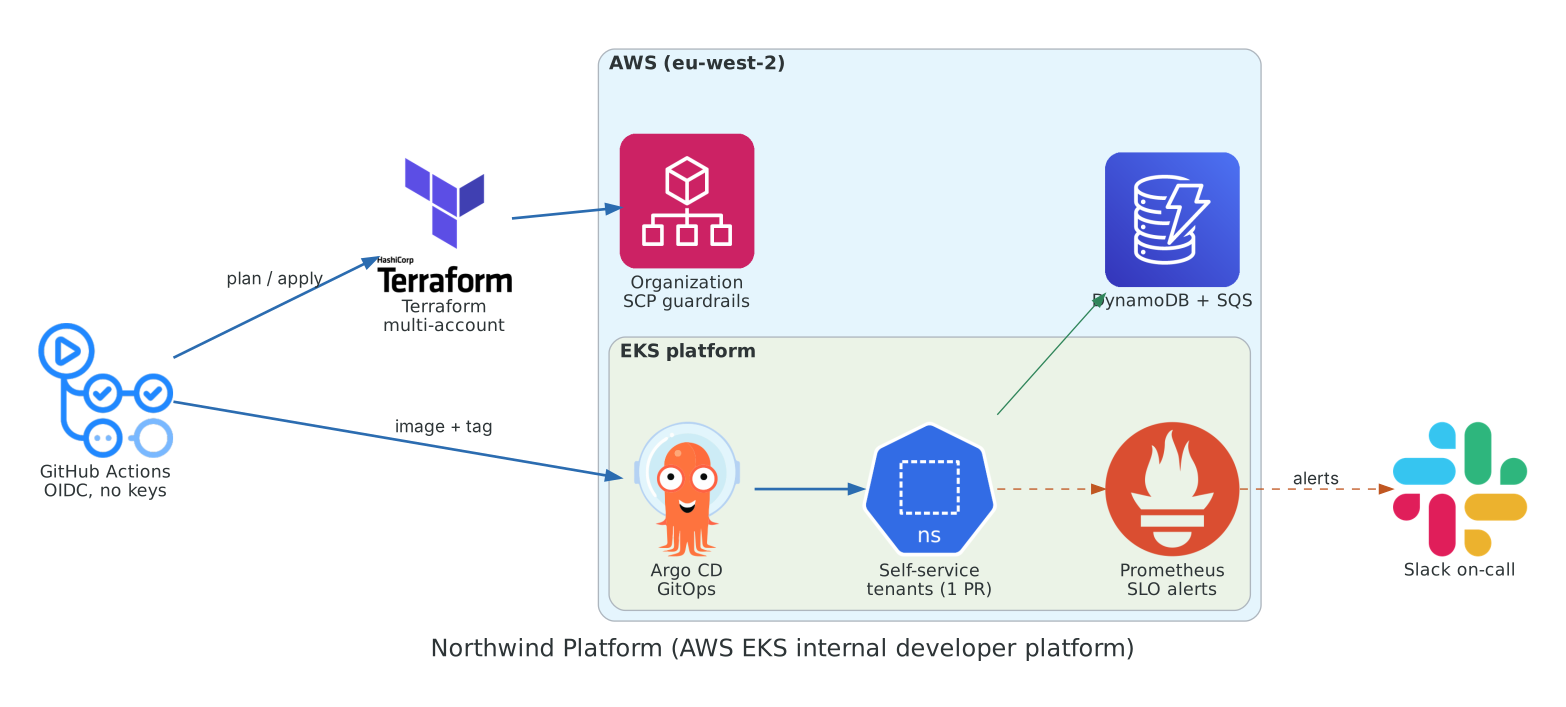
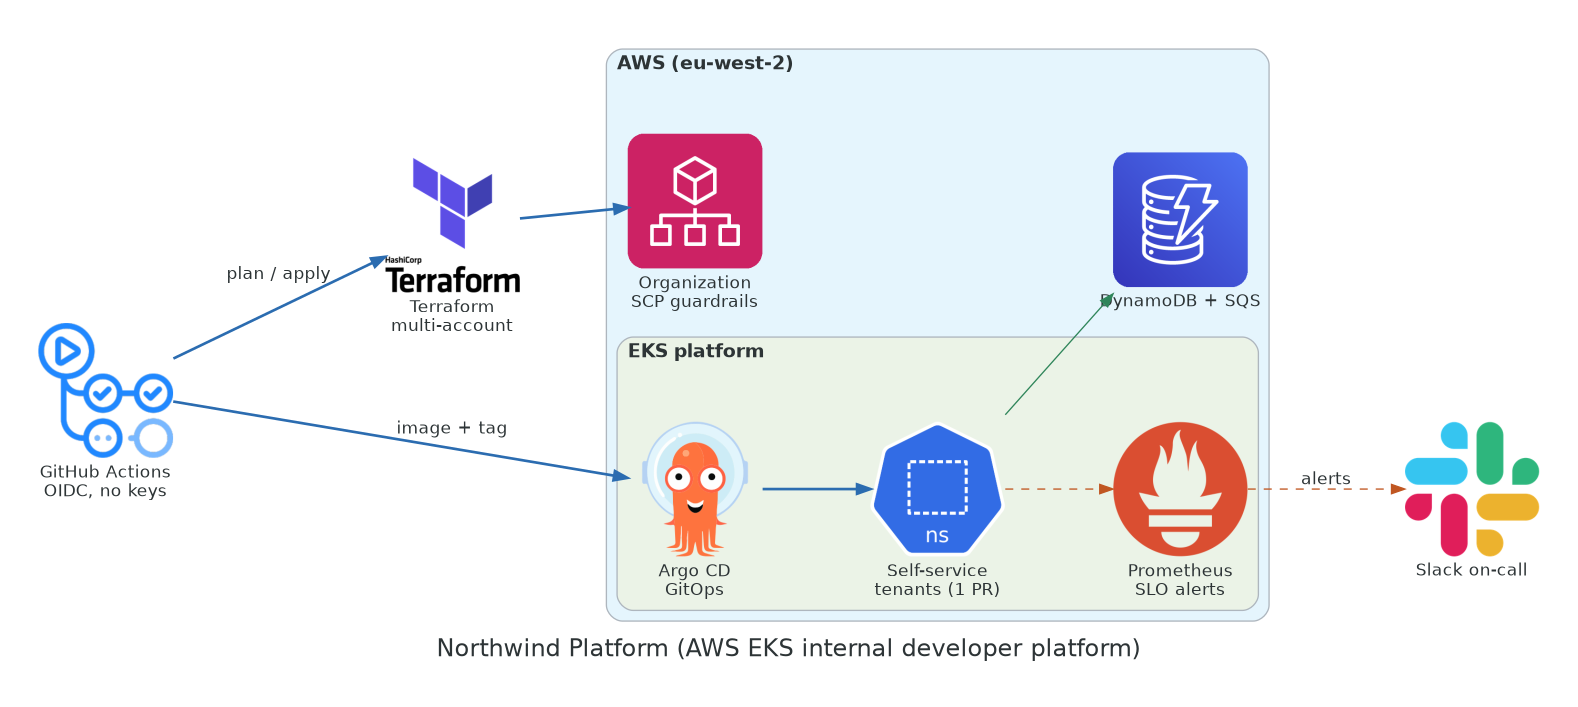
docs: close week 1 with diagrams, evidence and readme (#24)
- README: v0.1 status, target-diagram caption, Status column with proof
  links, Week 1 evidence, roadmap row, and known foundation gaps (#3, #4)
- architecture.md: what layer 1 and delivery contain today
- Diagram: scan node relabelled Checkov + Trivy + Infracost
- Evidence: OIDC apply-log screenshot and four new index rows
- ADR 0033: dismiss accepted-risk alerts in GitHub with their reason
- ADR 0037: tag check runs on an Infracost trial; Checkov replaces it

diff --git a/docs/diagrams/architecture.py b/docs/diagrams/architecture.py
@@ -97,7 +97,8 @@ def detailed() -> None:
             repo = Github("northwind-platform\nmonorepo")
             gha = GithubActions("Actions\nplan / apply / build")
             tf = Terraform("Terraform\nmodules")
-            scan = Trivy("Trivy + Checkov\nscans")
+            # Checkov first: it is the only blocking check; Infracost has no icon, so the label carries it.
+            scan = Trivy("Checkov + Trivy\n+ Infracost")
             repo >> deploy("PR") >> gha
             gha >> deploy() >> tf
             gha >> deploy() >> scan

diff --git a/README.md b/README.md
@@ -4,11 +4,14 @@
 Multi-account AWS, Terraform, EKS, Argo CD GitOps, keyless CI/CD and SLO-based alerting,
 validated with five incident drills.
 
-> 🚧 **Status:** Week 0 — workspace set up. See the [roadmap](#roadmap) for progress.
+> 🚧 **Status:** `v0.1-foundation` done: AWS Organization, SCPs, and keyless Terraform CI.
+> Week 2 (VPC + EKS) is next. See the [roadmap](#roadmap) for progress.
 
 ![Architecture](docs/diagrams/architecture.png)
 
-<sub>Diagram generated from code: [`docs/diagrams/architecture.py`](docs/diagrams/architecture.py) · `make diagram`</sub>
+<sub>Target architecture. Built so far: the AWS Organization, the bootstrap (state and OIDC roles)
+and the delivery pipeline. Generated from code:
+[`docs/diagrams/architecture.py`](docs/diagrams/architecture.py) · `make diagram`</sub>
 
 ---
 
@@ -29,20 +32,22 @@ self-service golden paths, so teams ship safely without waiting on a platform en
 
 ## What this demonstrates
 
-| Skill | Where to look |
-| --- | --- |
-| AWS core: VPC, IAM, EKS, DynamoDB, SQS, KMS, Route 53 | [`terraform/modules/`](terraform/modules/), [`terraform/envs/`](terraform/envs/) |
-| Infrastructure as Code (Terraform) | Modules, S3 remote state with locking, env split, pinned versions |
-| Multi-account governance | [`terraform/org/`](terraform/org/) — Organizations, SCPs, CloudTrail, budgets |
-| Kubernetes on EKS | Karpenter (spot), LB controller, Pod Identity |
-| CI/CD (GitHub Actions) | [`.github/workflows/`](.github/workflows/) — OIDC, plan on PR, apply on merge |
-| GitOps (Argo CD) | [`gitops/`](gitops/) — app-of-apps, promotion by PR, rollback by `git revert` |
-| Self-service platform | [`teams/`](teams/) + [`terraform/modules/tenant/`](terraform/modules/tenant/) |
-| Observability and SLOs | Prometheus, Grafana, Loki, Tempo, OpenTelemetry; burn-rate alerts to Slack |
-| Security by design | SCPs, least privilege, Kyverno, External Secrets, Trivy, Checkov, gitleaks |
-| FinOps | Tag policy, Infracost on PRs, OpenCost per team, spot, `make down` teardown verifier |
-| Python | [`apps/`](apps/) (FastAPI) and [`tools/`](tools/) with pytest |
-| Operations | [ADRs](docs/adr/), [runbooks](docs/runbooks/), [postmortems](docs/postmortems/) |
+✅ built, with a link to the code or proof · 🗓 planned, with the week it lands.
+
+| Skill | Where to look | Status |
+| --- | --- | --- |
+| AWS core: VPC, IAM, EKS, DynamoDB, SQS, KMS, Route 53 | IAM: [`terraform/bootstrap/`](terraform/bootstrap/), [`terraform/org/`](terraform/org/) · the rest: `terraform/modules/`, `terraform/envs/` | ✅ IAM · 🗓 Weeks 2–4 |
+| Infrastructure as Code (Terraform) | S3 remote state with native locking, pinned providers with lockfile hashes, imported console resources · modules and env split | ✅ state, pins, imports · 🗓 modules (Week 2) |
+| Multi-account governance | [`terraform/org/`](terraform/org/) — Organizations, deny-list SCPs, region lock, org CloudTrail, budget ([region deny](docs/evidence/2026-10-29-scp-region-deny.png), [trail event](docs/evidence/2026-10-29-cloudtrail-scp-deny-event.png)) | ✅ |
+| Kubernetes on EKS | Karpenter (spot), LB controller, Pod Identity | 🗓 Week 2 |
+| CI/CD (GitHub Actions) | [`ci.yml`](.github/workflows/ci.yml) — OIDC with no stored keys, plan on PR, approval-gated apply on merge ([OIDC apply log](docs/evidence/2026-11-16-apply-oidc-role.png), [PR plan](docs/evidence/2026-11-10-pr-plan-infracost.png), [push to `main` rejected](docs/evidence/2026-11-09-protect-main-push-rejected.png)) | ✅ |
+| GitOps (Argo CD) | `gitops/` — app-of-apps, promotion by PR, rollback by `git revert` | 🗓 Week 3 |
+| Self-service platform | `teams/` + `terraform/modules/tenant/` | 🗓 Week 3 |
+| Observability and SLOs | Prometheus, Grafana, Loki, Tempo, OpenTelemetry; burn-rate alerts to Slack | 🗓 Week 5 |
+| Security by design | SCPs, keyless CI, Checkov as a blocking check ([finding on a PR](docs/evidence/2026-11-11-pr-checkov-finding.png)), Trivy, gitleaks, SHA-pinned actions · Kyverno, External Secrets | ✅ CI and guardrails · 🗓 Kyverno, ESO (Week 4) |
+| FinOps | [£20 budget](terraform/org/budget.tf), mandatory tags checked on PRs ([ADR 0037](docs/adr/0037-mandatory-tags-on-prs.md), [passing check](docs/evidence/2026-11-16-infracost-tags-pass.png), Infracost trial), Infracost cost diff on PRs · spot, `make down` teardown verifier, OpenCost per team | ✅ budget, tags, cost diff · 🗓 Weeks 2 and 6 |
+| Python | `apps/` (FastAPI) and `tools/` with pytest | 🗓 Weeks 2–4 |
+| Operations | [ADRs](docs/adr/) · [runbooks](docs/runbooks/), [postmortems](docs/postmortems/) | ✅ ADRs · 🗓 Weeks 5–6 |
 
 ---
 
@@ -56,7 +61,10 @@ self-service golden paths, so teams ship safely without waiting on a platform en
 | Grafana SLO dashboard during drill 1 | _Week 5_ |
 | Slack burn-rate alert with runbook link | _Week 5_ |
 | Argo CD application tree | _Week 3_ |
-| PR with Terraform plan, Checkov and Infracost comments | _Week 1_ |
+| PR with Terraform plan and Infracost comments | [screenshot](docs/evidence/2026-11-10-pr-plan-infracost.png) |
+| Checkov finding blocking a PR | [screenshot](docs/evidence/2026-11-11-pr-checkov-finding.png) |
+| Apply job running on OIDC credentials, no stored keys | [screenshot](docs/evidence/2026-11-16-apply-oidc-role.png) |
+| Region-lock SCP denying a create outside eu-west-2 | [screenshot](docs/evidence/2026-10-29-scp-region-deny.png) |
 
 All screenshots live in [`docs/evidence/`](docs/evidence/).
 
@@ -117,7 +125,7 @@ Estimates; measured figures will replace them after Week 2.
 
 | Milestone | Scope | Status |
 | --- | --- | --- |
-| `v0.1-foundation` | Organization, SCPs, state, OIDC, Terraform CI | ⬜ |
+| `v0.1-foundation` | Organization, SCPs, state, OIDC, Terraform CI | ✅ |
 | `v0.2-cluster` | VPC, EKS, Karpenter, DNS, `make up/down` | ⬜ |
 | `v0.3-gitops` | Argo CD, platform services, tenant self-service | ⬜ |
 | `v0.4-delivery` | Apps, app pipeline, Kyverno, secrets, promotion | ⬜ |
@@ -144,6 +152,15 @@ docs/        architecture.md  adr/  runbooks/  postmortems/  evidence/  diagrams
 
 Single region, synthetic traffic only, Slack instead of paging, and no policy-as-code gate on
 Terraform beyond Checkov. Each is recorded as a conscious trade-off in [`docs/adr/`](docs/adr/).
+
+Open foundation gaps, each tracked:
+
+- The CI apply role has `AdministratorAccess` until it is scoped down
+  ([#3](https://github.com/YanzhengL/northwind-platform/issues/3)).
+- Terraform state and the CI roles live in the management account until they move to
+  `shared-services` ([#4](https://github.com/YanzhengL/northwind-platform/issues/4), [ADR 0013](docs/adr/0013-bootstrap-in-management-account.md)).
+- The Infracost tag check runs on a trial; a custom Checkov policy replaces it before Week 3
+  ([ADR 0037](docs/adr/0037-mandatory-tags-on-prs.md)).
 
 ## About
 

diff --git a/docs/evidence/README.md b/docs/evidence/README.md
@@ -12,3 +12,7 @@ Screenshots and recordings captured from real runs. They back up the claims in t
 | [2026-10-29-cloudtrail-scp-deny-event.png](2026-10-29-cloudtrail-scp-deny-event.png) | The denied CreateBucket recorded by the org trail in S3 | [ADR 0021](../adr/0021-deny-list-scps.md) |
 | [2026-10-31-apply-environment.png](2026-10-31-apply-environment.png) | `terraform-apply` environment: required reviewer, deployments limited to `main` | [ADR 0012](../adr/0012-gha-apply-trust.md) |
 | [2026-11-09-protect-main-push-rejected.png](2026-11-09-protect-main-push-rejected.png) | Direct `git push origin main` rejected by the `protect-main` ruleset (GH013: PR required, `ci-ok` check expected) | [ADR 0035](../adr/0035-branch-protection-rulesets.md) |
+| [2026-11-10-pr-plan-infracost.png](2026-11-10-pr-plan-infracost.png) | PR comments: Infracost report (default tag policy still failing) and the redacted `org` plan, addresses and actions only | [ADR 0032](../adr/0032-public-repo-plan-hygiene.md), [ADR 0033](../adr/0033-iac-scanning-and-cost-gates.md) |
+| [2026-11-11-pr-checkov-finding.png](2026-11-11-pr-checkov-finding.png) | A deliberate open-SSH security group failing Checkov, shown as code scanning annotations on the PR | [ADR 0033](../adr/0033-iac-scanning-and-cost-gates.md) |
+| [2026-11-16-infracost-tags-pass.png](2026-11-16-infracost-tags-pass.png) | Infracost comment passing after the tag policy was set to `team`, `env`, `service`, `owner` | [ADR 0037](../adr/0037-mandatory-tags-on-prs.md) |
+| [2026-11-16-apply-oidc-role.png](2026-11-16-apply-oidc-role.png) | Apply job log printing `assumed-role/nw-gha-apply/GitHubActions`: OIDC credentials, no account ID | [ADR 0012](../adr/0012-gha-apply-trust.md) |

diff --git a/docs/architecture.md b/docs/architecture.md
@@ -12,3 +12,19 @@ Decisions and trade-offs are recorded in `docs/adr/`.
 6. Workloads - orders-api, payments-worker
 
 _Expand each section as the milestone lands._
+
+## Built so far
+
+### Layer 1: AWS Organization (`v0.1-foundation`)
+- Four accounts under two OUs, with deny-list SCPs and a region lock to `eu-west-2`; global
+  services are exempt ([ADR 0020](adr/0020-four-account-structure.md), [0021](adr/0021-deny-list-scps.md), [0022](adr/0022-region-lock-exemptions.md)).
+- An organization CloudTrail trail, a £20 budget and an org tag policy for the four mandatory tag keys,
+  all in `terraform/org/`.
+- The bootstrap (Terraform state bucket and the GitHub OIDC roles) sits in the management account,
+  because it had to exist before `shared-services`; the move is tracked in #4 ([ADR 0013](adr/0013-bootstrap-in-management-account.md)).
+
+### Delivery
+- One `ci.yml` pipeline: static checks with no credentials, then plan on the PR, then apply after
+  merge and approval, all through OIDC ([ADR 0030](adr/0030-ci-workflow-layout.md)–[0036](adr/0036-immutable-oidc-subject-claims.md), [0012](adr/0012-gha-apply-trust.md)).
+- Checkov blocks merges; Trivy and Infracost report ([ADR 0033](adr/0033-iac-scanning-and-cost-gates.md)), and
+  mandatory tags are checked on the PR ([ADR 0037](adr/0037-mandatory-tags-on-prs.md)).

diff --git a/docs/adr/0033-iac-scanning-and-cost-gates.md b/docs/adr/0033-iac-scanning-and-cost-gates.md
@@ -2,6 +2,13 @@
 
 - **Status:** accepted
 - **Date:** 2026-10-31
+- **Amended:** 2026-11-17 - accepted risks still reach the Security tab: Checkov's SARIF reports
+  inline-skipped checks, and Trivy does not read `checkov:skip` comments. Rather than filter SARIF
+  in CI or duplicate every reason as a `trivy:ignore` comment, each accepted-risk alert is dismissed
+  in GitHub as "won't fix", with the same reason as its inline skip. `CKV_AWS_274` and
+  `CKV_AWS_275` (AdministratorAccess on the apply role) stay open, linked to #3, until the role is
+  scoped down. Trade-off: the dismissal reason lives in GitHub, not Git, and an alert can reopen as
+  new if its resource moves; it is then dismissed again with the same reason.
 
 ## Context
 The platform security requirements call for Checkov and Trivy in CI and Infracost on Terraform PRs. What's left to decide is

diff --git a/docs/adr/0037-mandatory-tags-on-prs.md b/docs/adr/0037-mandatory-tags-on-prs.md
@@ -2,6 +2,11 @@
 
 - **Status:** accepted
 - **Date:** 2026-11-16
+- **Amended:** 2026-11-16 - Infracost tagging policies are a 14-day Infracost Cloud trial, not
+  part of the free tier, and the trial will not be extended. The check is proven by
+  `docs/evidence/2026-11-16-infracost-tags-pass.png`, then stops when the trial ends. Its
+  replacement is the custom Checkov policy from "Alternatives", planned before tenant
+  onboarding in Week 3.
 
 ## Context
 Every AWS resource must carry four tags: `team`, `env`, `service` and `owner`. They drive cost
